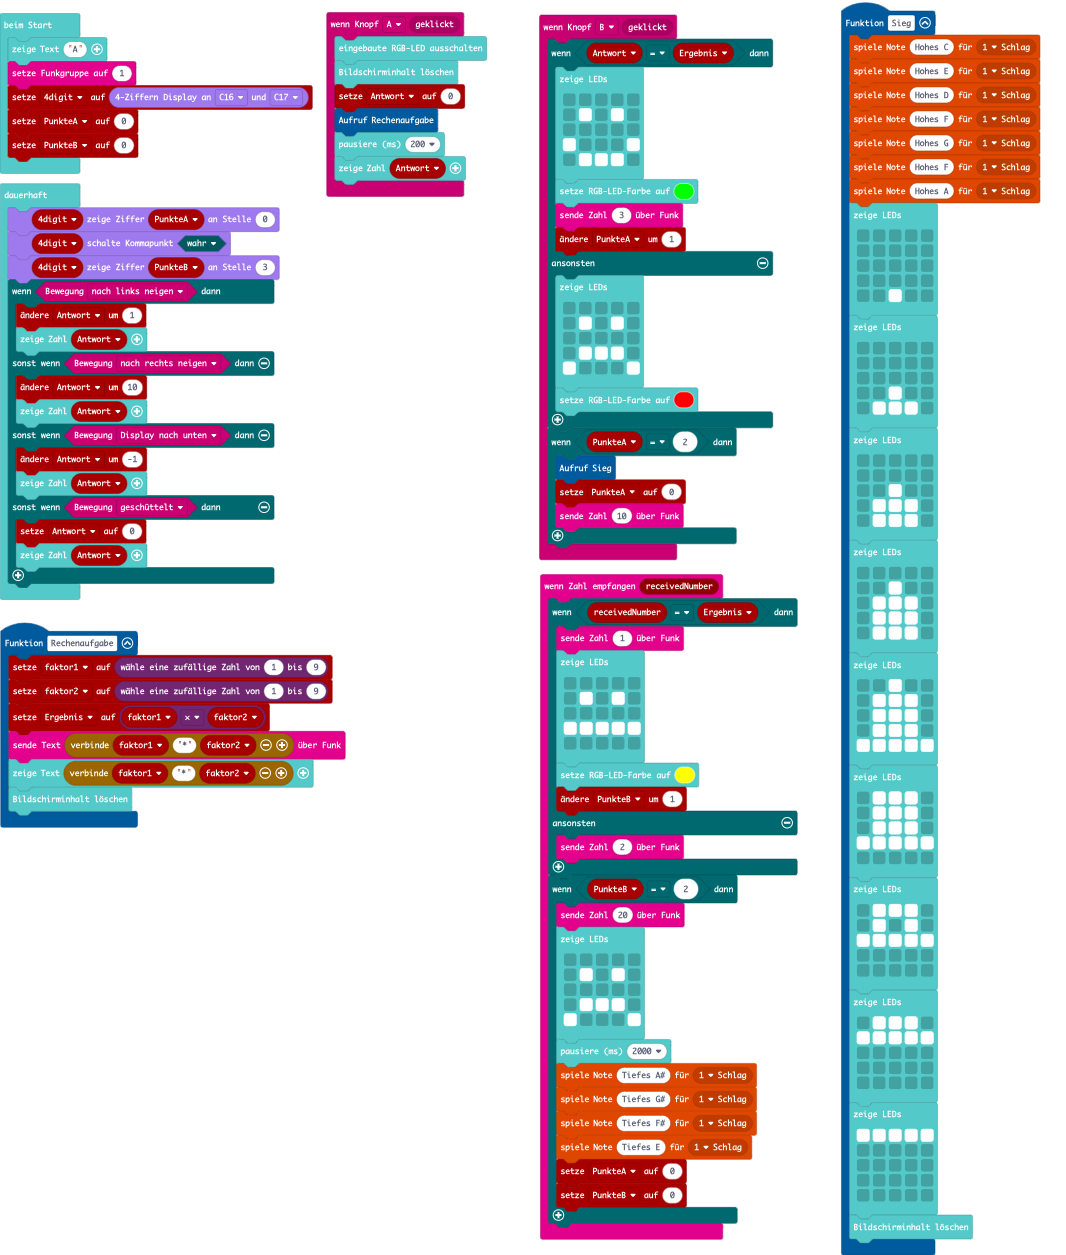
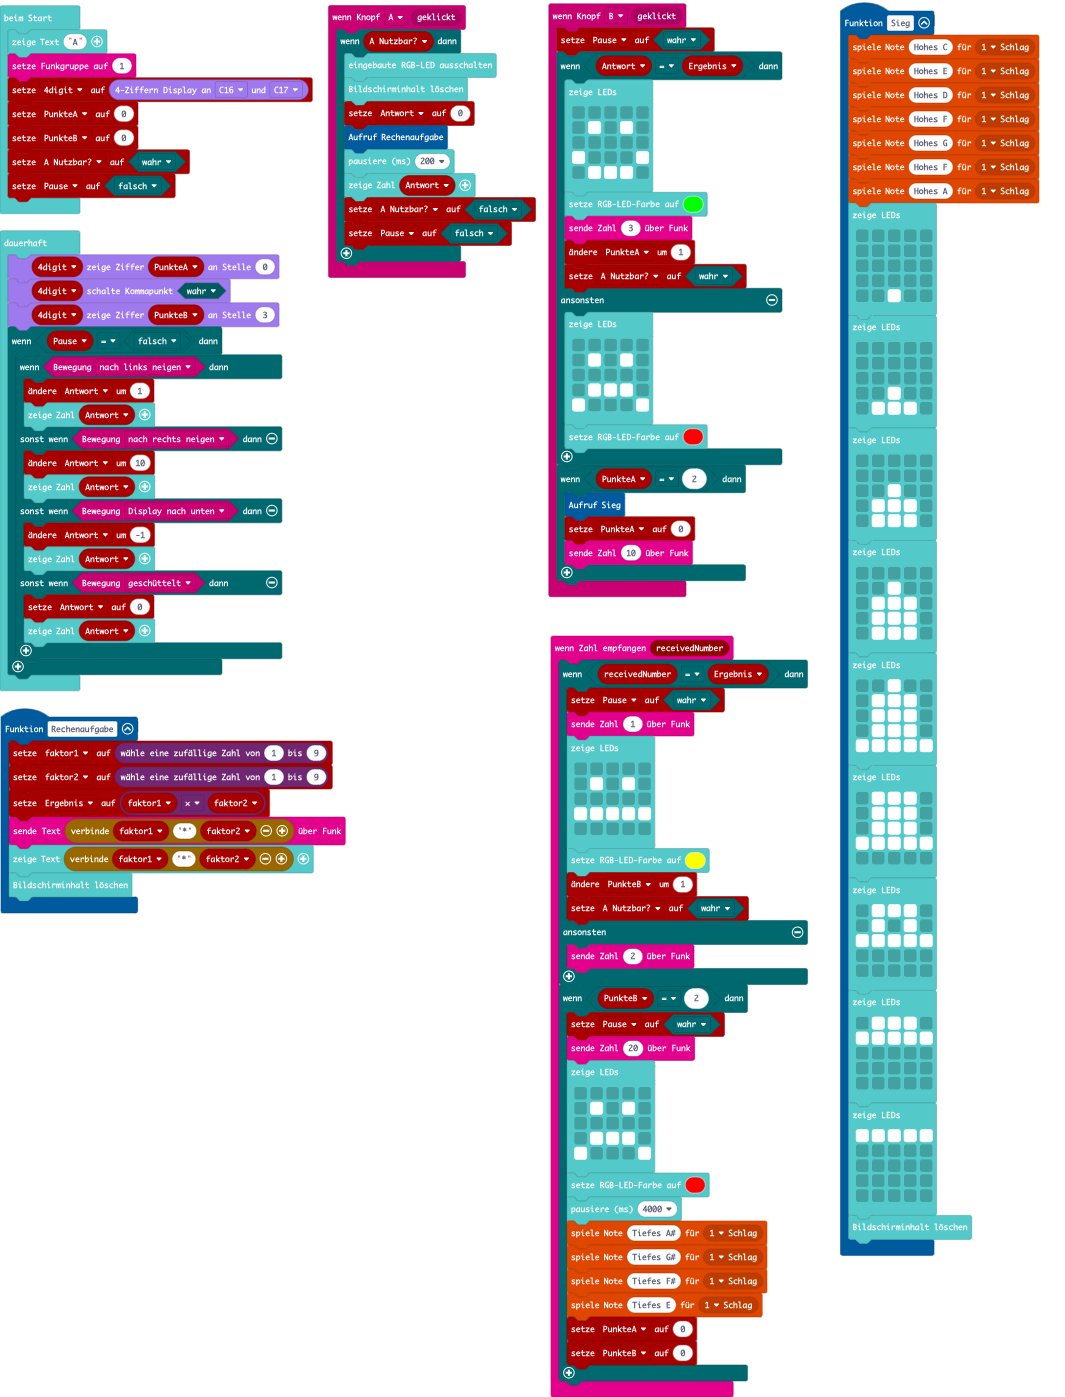
Aktualisiere main.blocks, main.ts

Changed region(s): [[0.0, 0.0, 0.7746, 1.0], [0.7746, 0.0, 0.9915, 0.7769], [0.7746, 0.808, 0.9296, 1.0]]

diff --git a/main.ts b/main.ts
@@ -4,6 +4,7 @@ enum RadioMessage {
 }
 radio.onReceivedNumber(function (receivedNumber) {
     if (receivedNumber == Ergebnis) {
+        Pause = true
         radio.sendNumber(1)
         basic.showLeds(`
             . . . . .
@@ -14,10 +15,12 @@ radio.onReceivedNumber(function (receivedNumber) {
             `)
         basic.setLedColor(0xffff00)
         PunkteB += 1
+        A_Nutzbar = true
     } else {
         radio.sendNumber(2)
     }
     if (PunkteB == 2) {
+        Pause = true
         radio.sendNumber(20)
         basic.showLeds(`
             . . . . .
@@ -26,7 +29,8 @@ radio.onReceivedNumber(function (receivedNumber) {
             . # # # .
             # . . . #
             `)
-        basic.pause(2000)
+        basic.setLedColor(0xff0000)
+        basic.pause(4000)
         music.playTone(233, music.beat(BeatFraction.Whole))
         music.playTone(208, music.beat(BeatFraction.Whole))
         music.playTone(185, music.beat(BeatFraction.Whole))
@@ -36,14 +40,19 @@ radio.onReceivedNumber(function (receivedNumber) {
     }
 })
 input.onButtonEvent(Button.A, input.buttonEventClick(), function () {
-    basic.turnRgbLedOff()
-    basic.clearScreen()
-    Antwort = 0
-    Rechenaufgabe()
-    basic.pause(200)
-    basic.showNumber(Antwort)
+    if (A_Nutzbar) {
+        basic.turnRgbLedOff()
+        basic.clearScreen()
+        Antwort = 0
+        Rechenaufgabe()
+        basic.pause(200)
+        basic.showNumber(Antwort)
+        A_Nutzbar = false
+        Pause = false
+    }
 })
 input.onButtonEvent(Button.B, input.buttonEventClick(), function () {
+    Pause = true
     if (Antwort == Ergebnis) {
         basic.showLeds(`
             . . . . .
@@ -55,6 +64,7 @@ input.onButtonEvent(Button.B, input.buttonEventClick(), function () {
         basic.setLedColor(0x00ff00)
         radio.sendNumber(3)
         PunkteA += 1
+        A_Nutzbar = true
     } else {
         basic.showLeds(`
             . . . . .
@@ -156,6 +166,8 @@ let faktor2 = 0
 let faktor1 = 0
 let Antwort = 0
 let Ergebnis = 0
+let Pause = false
+let A_Nutzbar = false
 let PunkteB = 0
 let PunkteA = 0
 basic.showString("A")
@@ -163,21 +175,25 @@ radio.setGroup(1)
 let _4digit = grove.createDisplay(DigitalPin.C16, DigitalPin.C17)
 PunkteA = 0
 PunkteB = 0
+A_Nutzbar = true
+Pause = false
 basic.forever(function () {
     _4digit.bit(PunkteA, 0)
     _4digit.point(true)
     _4digit.bit(PunkteB, 3)
-    if (input.isGesture(Gesture.TiltLeft)) {
-        Antwort += 1
-        basic.showNumber(Antwort)
-    } else if (input.isGesture(Gesture.TiltRight)) {
-        Antwort += 10
-        basic.showNumber(Antwort)
-    } else if (input.isGesture(Gesture.ScreenDown)) {
-        Antwort += -1
-        basic.showNumber(Antwort)
-    } else if (input.isGesture(Gesture.Shake)) {
-        Antwort = 0
-        basic.showNumber(Antwort)
+    if (Pause == false) {
+        if (input.isGesture(Gesture.TiltLeft)) {
+            Antwort += 1
+            basic.showNumber(Antwort)
+        } else if (input.isGesture(Gesture.TiltRight)) {
+            Antwort += 10
+            basic.showNumber(Antwort)
+        } else if (input.isGesture(Gesture.ScreenDown)) {
+            Antwort += -1
+            basic.showNumber(Antwort)
+        } else if (input.isGesture(Gesture.Shake)) {
+            Antwort = 0
+            basic.showNumber(Antwort)
+        }
     }
 })
